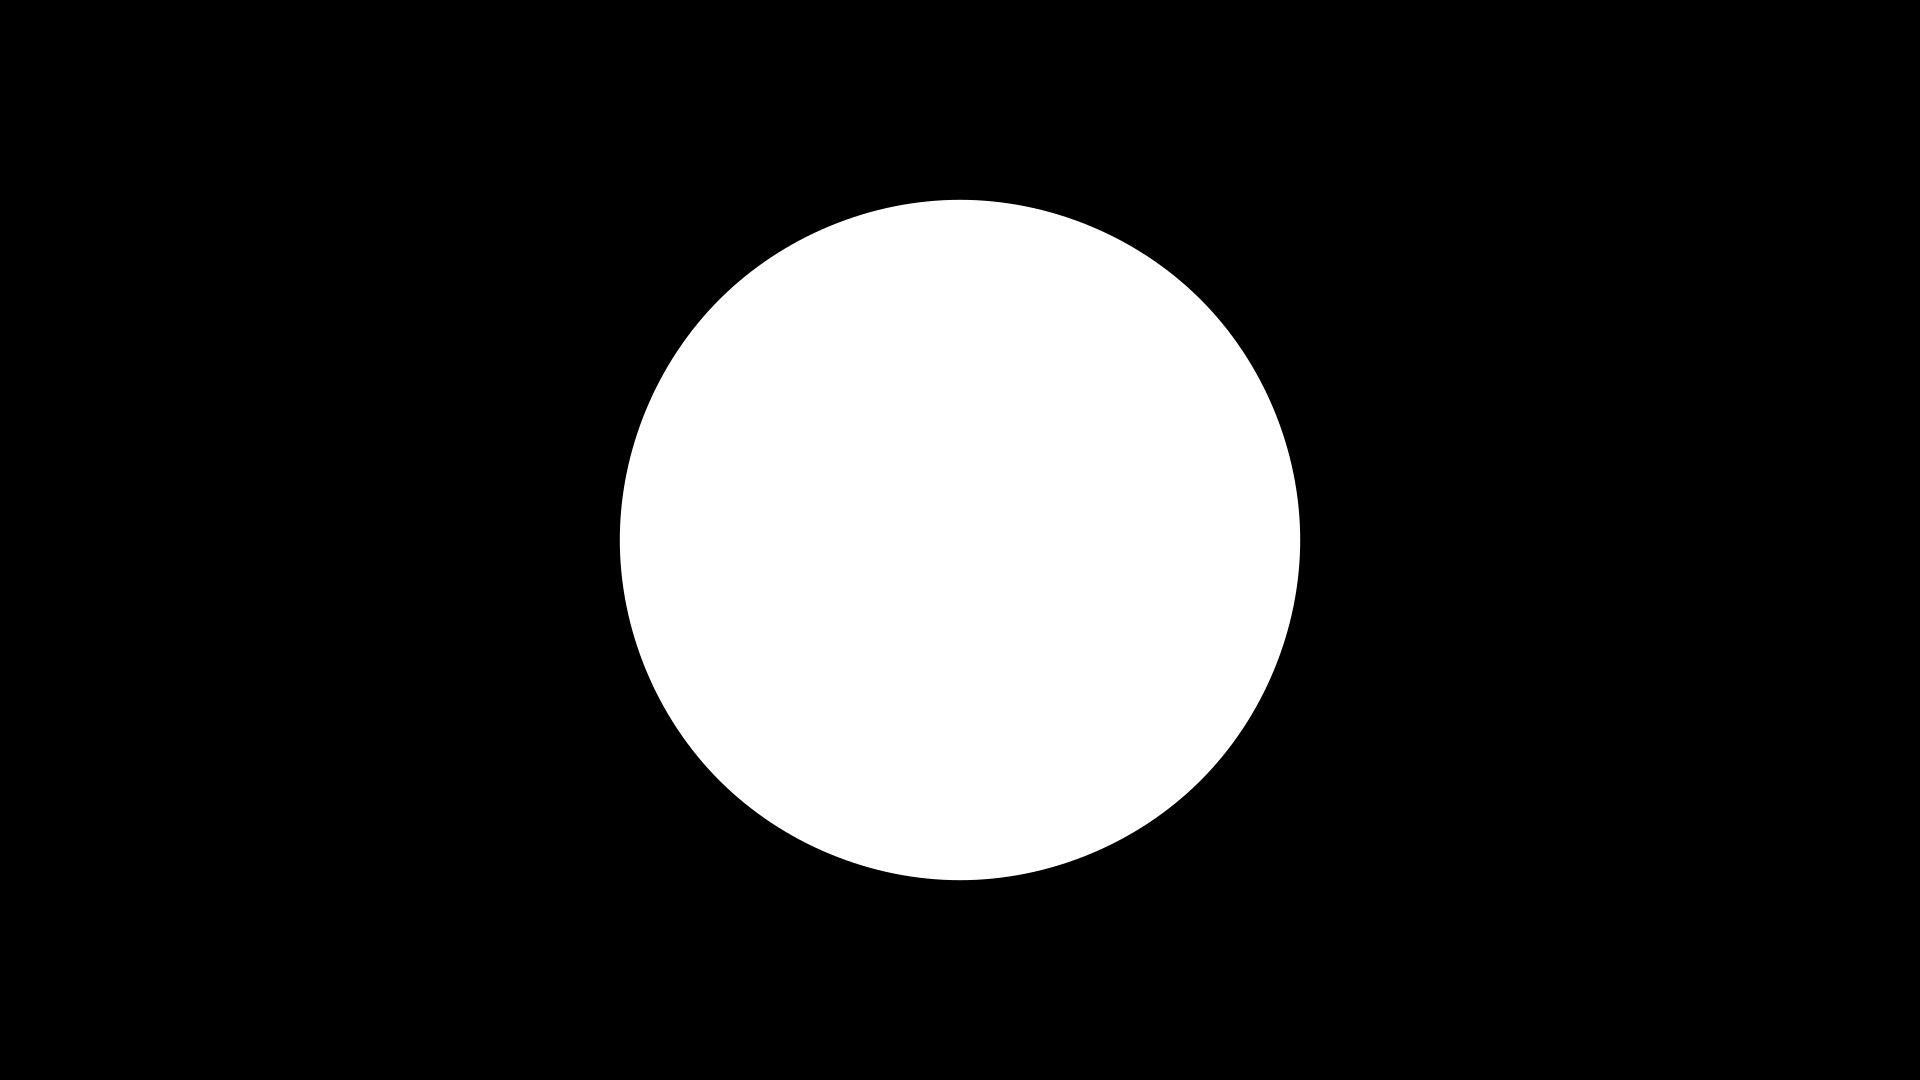
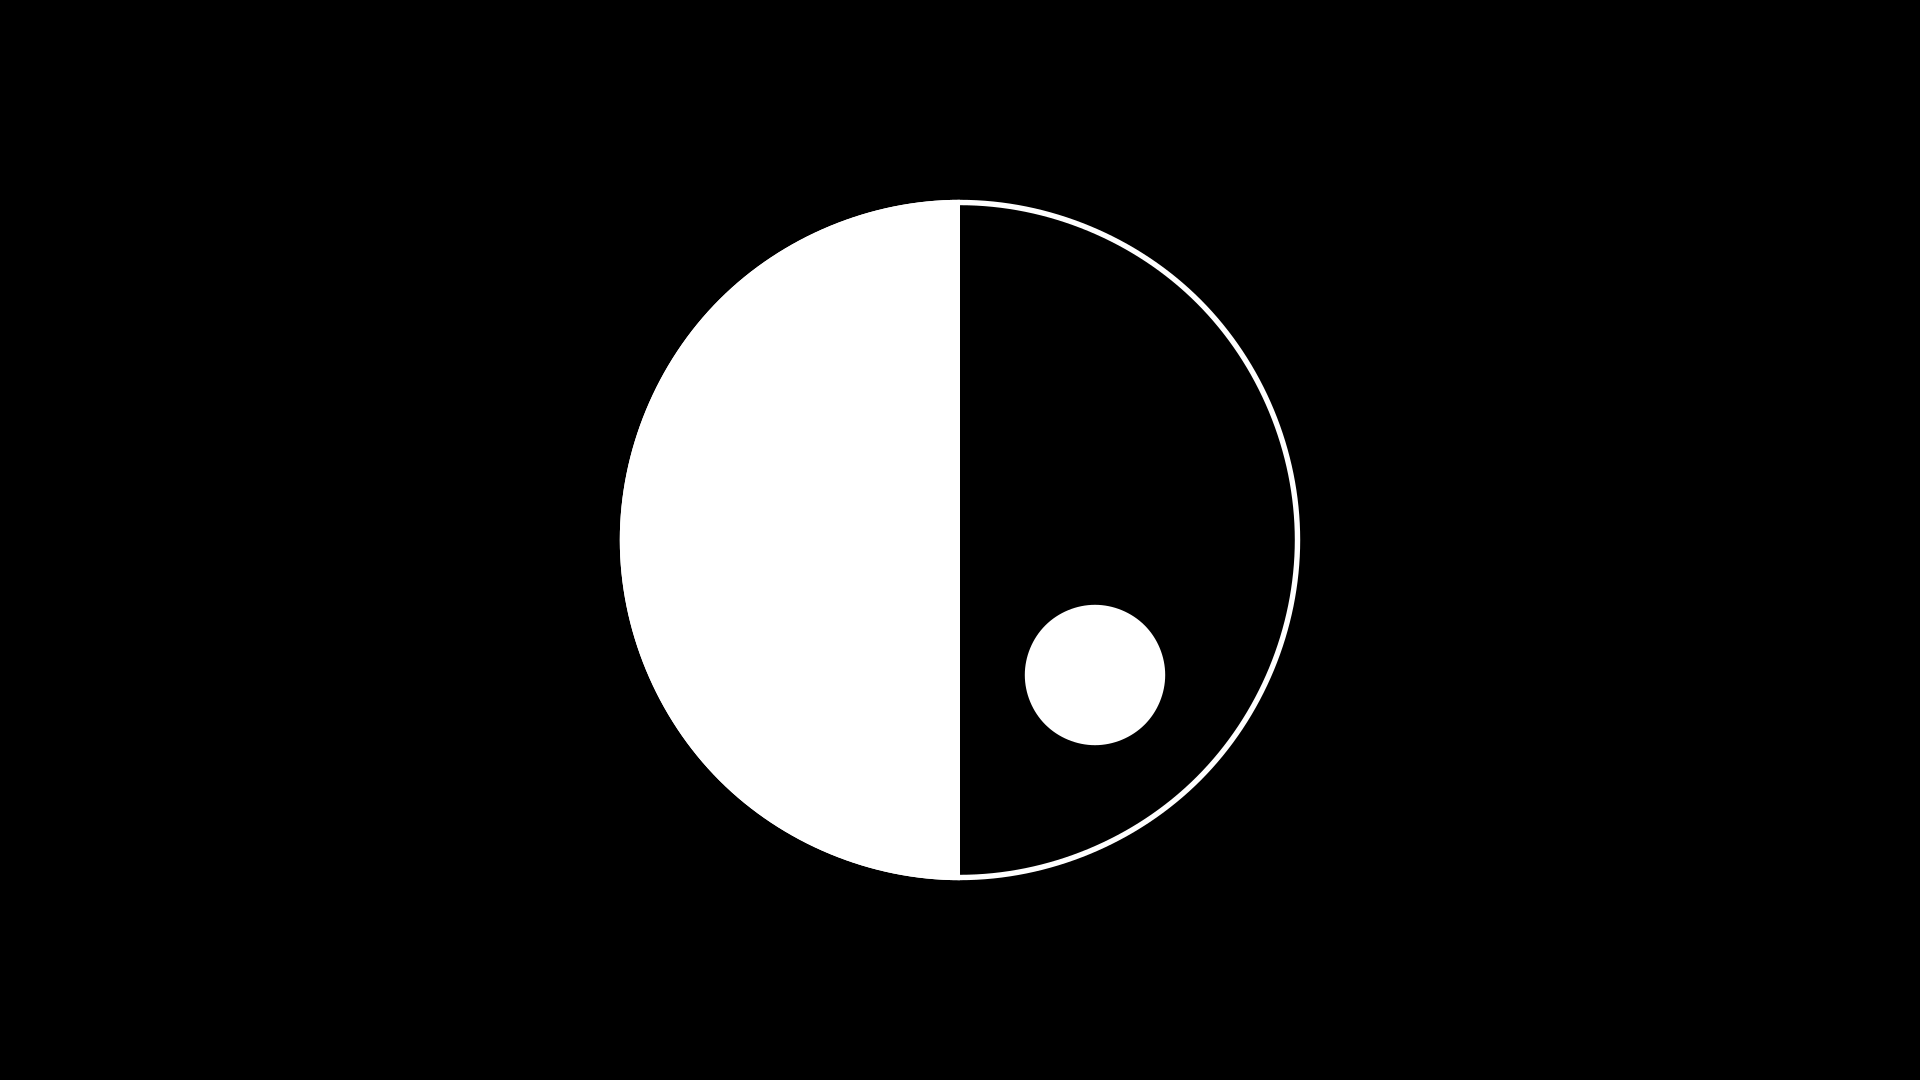
ying yang continued

Changed region(s): [[0.5, 0.1833, 0.6875, 0.825]]

diff --git a/Exercises/Ex_05.py b/Exercises/Ex_05.py
@@ -19,13 +19,18 @@ from manim import *
 
 class ex_05(Scene):
     def construct(yinyang):
-      
+        w_fill = {"fill_opacity": 1}
 
-      w_fill = {"fill_opacity":1}
-      w_circle = Circle(color=WHITE,**w_fill).set(height=5)
+        w_circle = Circle(color=WHITE).set(height=5)
+        w_circle.rotate(PI / 2)  
+        
+        semi_circle = VMobject(**w_fill).set_points(
+            w_circle.points[:int(len(w_circle.points) / 2)]
+        )
 
+        b_circle = Circle(color=WHITE, **w_fill).set(height=1)
+        b_circle.shift(1 * DOWN + 1 * RIGHT)
 
-
-      yinyang.add(w_circle)
+        yinyang.add(w_circle, semi_circle, b_circle)
 
 

diff --git a/Exercises/EX_03.py b/Exercises/EX_03.py
@@ -12,7 +12,7 @@ class Ex_03(Scene):
         square = Square(**red).set(height=3)
         rotate = {"angle":-PI/4}
 
-
+        
         l_circle.shift(LEFT*1)
         r_circle.shift(RIGHT*1)
         square.shift(DOWN*1)
